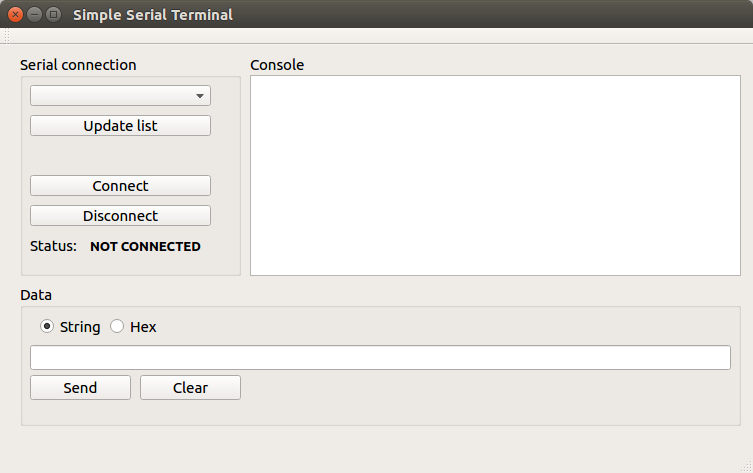
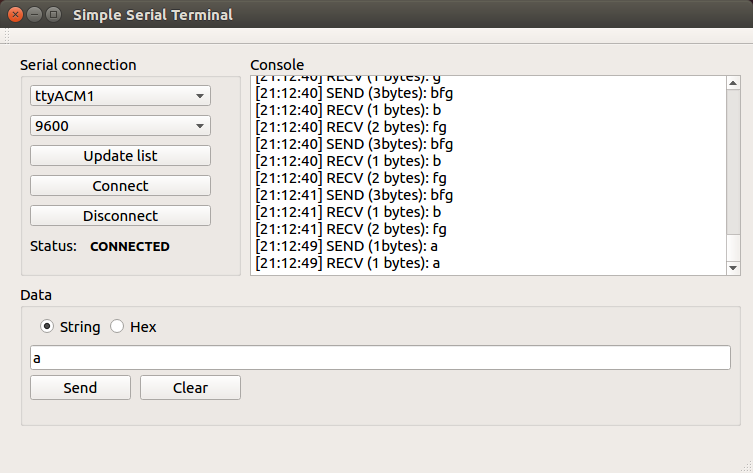
tested and works

diff --git a/SerialClient.cpp b/SerialClient.cpp
@@ -6,11 +6,9 @@ SerialClient::SerialClient()
 
 SerialClient::~SerialClient()
 {
-	if(pSerialPort != Q_NULLPTR)
+    if(this->isOpen())
 	{
-		if(pSerialPort->isOpen())
-			pSerialPort->close();
-
+        this->disconnect();
 		delete pSerialPort;
 		pSerialPort = Q_NULLPTR;
 	}
@@ -29,13 +27,10 @@ void SerialClient::setLastError(QString error)
 bool SerialClient::connect(QString portName, BaudRate baudRate)
 {
 	//Make sure we are not already connected
-	if(pSerialPort != Q_NULLPTR || pSerialPort)
+    if(this->isOpen())
 	{
-		if(pSerialPort && pSerialPort->isOpen())
-			pSerialPort->close();
-
-		delete pSerialPort;
-		pSerialPort = Q_NULLPTR;
+        this->setLastError("Port must be gracefully closed before any reconnect attempt!");
+        return false;
 	}
 
 	if(portName.isEmpty())	//If you pass an empty name, pSerialPort will crash!
@@ -61,7 +56,7 @@ bool SerialClient::connect(QString portName, BaudRate baudRate)
 		pSerialPort->open(QIODevice::ReadWrite);
 
 		//Check if connection succeed
-		if(pSerialPort->isOpen())
+        if(this->isOpen())
 		{
 			//Clean buffers to throw away garbage from the wires - but it is now working :(
 			pSerialPort->flush();
@@ -83,15 +78,19 @@ bool SerialClient::connect(QString portName, BaudRate baudRate)
 
 bool SerialClient::disconnect()
 {
-	if(!pSerialPort)
+    if(pSerialPort == Q_NULLPTR)
 		return true;
 
 	pSerialPort->close();
+    pSerialPort->disconnect();
 
-	if(!pSerialPort->isOpen())
-		return true;
+    if(this->isOpen())
+        return false;
 
-	return false;
+    delete pSerialPort;
+    pSerialPort = Q_NULLPTR;
+
+    return true;
 }
 
 void SerialClient::connectionStatusChanged(QSerialPort::SerialPortError errNo)
@@ -106,18 +105,23 @@ void SerialClient::connectionStatusChanged(QSerialPort::SerialPortError errNo)
 	}
 }
 
-qint64 SerialClient::write(QString str)
+qint64 SerialClient::write(QByteArray writeData)
 {
-	if(pSerialPort == Q_NULLPTR)
-	{
-		this->setLastError("Not connected to serial port!");
-		return -1;
-	}
+    if(!this->isOpen())
+    {
+        this->setLastError("Port is not open for writing!");
+        return -1;
+    }
 
-	if( pSerialPort->isOpen() )
+    if(writeData.length() == 0)
+    {
+        this->setLastError("Invalid 0 length data to send!");
+        return -1;
+    }
+
+    if( this->isOpen() )
 	{
-		QByteArray writeData = str.toUtf8();
-		return pSerialPort->write( writeData );
+        return pSerialPort->write( writeData );
 	}
 	else
 	{
@@ -150,16 +154,18 @@ QList<QString> SerialClient::getSerialPorts()
 
 QString SerialClient::readString()
 {
+    if(!this->isOpen())
+    {
+        this->setLastError("Port is not oppened for reading!");
+        return "-1";
+    }
+
 	// Read data
 	static QByteArray byteArray;
 	byteArray += pSerialPort->readAll();
 
-	//we want to read all message not only chunks
-	if(!QString(byteArray).contains("\n"))
-		return "^_^";
-
 	//sanitize data
-	QString data = QString( byteArray ).remove("\r").remove("\n");
+    QString data = QString( byteArray );
 	byteArray.clear();
 
 	//Send it to visual console too
@@ -168,7 +174,24 @@ QString SerialClient::readString()
 
 bool SerialClient::isOpen()
 {
+    if(this->pSerialPort == Q_NULLPTR || this->pSerialPort == 0)
+        return false;
+
 	if(pSerialPort->isOpen() && pSerialPort->isWritable() && pSerialPort->isReadable())
 		return true;
 	return false;
+}
+
+qint64 SerialClient::read(char *buffer, qint64 maxLen)
+{
+    if(!this->isOpen())
+    {
+        this->setLastError("Port is not oppened for reading!");
+        return -1;
+    }
+
+    qint64 readBytes = pSerialPort->read(buffer, maxLen);
+    qDebug() << "RECV DATA (" << QString::number(readBytes) << " bytes) : " << QString::fromUtf8( buffer );
+
+    return readBytes;
 }

diff --git a/mainwindow.cpp b/mainwindow.cpp
@@ -6,6 +6,10 @@ MainWindow::MainWindow(QWidget *parent) :
     ui(new Ui::MainWindow)
 {
     ui->setupUi(this);
+
+    this->ui->comboBox_BaudRates->addItems({"1200", "2400", "4800", "9600", "14400", "19200", "38400", "57600", "115200"});
+    this->ui->comboBox_BaudRates->setCurrentIndex(3);
+    this->baud = QSerialPort::Baud9600;
 }
 
 MainWindow::~MainWindow()
@@ -38,10 +42,10 @@ void MainWindow::on_pushButton_connectSerialPort_clicked()
     if(serialPort != Q_NULLPTR)
     {
         if(serialPort->isOpen())
-            serialPort->disconnect();
-
-        delete serialPort;
-        serialPort = Q_NULLPTR;
+        {
+            consoleLog("ERROR: You must disconnect first!");
+            return;
+        }
     }
 
     serialPort = new SerialClient();
@@ -53,7 +57,7 @@ void MainWindow::on_pushButton_connectSerialPort_clicked()
 
     if(serialPort->connect(portName, this->baud))
     {
-        this->consoleLog("SUCCESS: You're now connected to serial port!!");
+        this->consoleLog("SUCCESS: CONNECTED!!1");
     }
     else
     {
@@ -68,15 +72,24 @@ void MainWindow::on_pushButton_connectSerialPort_clicked()
 
 void MainWindow::on_pushButton_disconnectSerialPort_clicked()
 {
-    if(serialPort == Q_NULLPTR || !serialPort)
+    if(serialPort == Q_NULLPTR || serialPort == 0 || !this->serialPort->isOpen())
     {
         this->consoleLog("FAILED: You're not connected to serial port!");
         return;
-    }
+    }    
 
-    if(this->serialPort->disconnect())
+    if(this->serialPort->isOpen())
     {
-        this->consoleLog("SUCCESS: DISCONNECTED!");
+        if(this->serialPort->disconnect())
+        {
+            this->consoleLog("SUCCESS: DISCONNECTED!");
+            this->setSerialPortStatus(false);
+        }
+        else
+        {
+            this->consoleLog("FAILED: " + serialPort->getLastError());
+            return;
+        }
     }
     else
     {
@@ -97,12 +110,12 @@ void MainWindow::on_pushButton_Send_clicked()
         return;
     }
 
-    QString sendStr = ui->lineEditData->text();
+    QByteArray sendStr =  ui->lineEditData->text().toUtf8();
 
     qint64 bytesWritten = serialPort->write(sendStr);
     if( bytesWritten > 0)
     {
-        QString dbgStr = "SUCCESS SEND (" + QString::number(bytesWritten) + "bytes): " + sendStr;
+        QString dbgStr = "SEND (" + QString::number(bytesWritten) + "bytes): " + sendStr;
         this->consoleLog(dbgStr);
     }
     else
@@ -114,4 +127,22 @@ void MainWindow::on_pushButton_Send_clicked()
 void MainWindow::on_pushButton_Clear_clicked()
 {
     ui->lineEditData->clear();
+}
+
+void MainWindow::setSerialPortStatus(bool connected)
+{
+    this->ui->connectionStatusLabel->setText( connected==true?("CONNECTED"):("NOT CONNECTED") );
+}
+
+void MainWindow::serialDataReceivingSlot()
+{
+    char buffer[64] = {0};
+    qint64 readBytes = serialPort->read(buffer, sizeof(buffer));
+
+    consoleLog("RECV (" + QString::number(readBytes) + " bytes): " + buffer);
+}
+
+void MainWindow::on_comboBox_BaudRates_currentIndexChanged(int index)
+{
+    this->baud = (SerialClient::BaudRate)index;
 }

diff --git a/mainwindow.h b/mainwindow.h
@@ -21,11 +21,15 @@ public:
     void consoleLog(QString str);
 
 private slots:
+    void serialDataReceivingSlot();
+    void setSerialPortStatus(bool);
+
     void on_pushButton_updateList_clicked();
     void on_pushButton_connectSerialPort_clicked();
     void on_pushButton_disconnectSerialPort_clicked();
     void on_pushButton_Send_clicked();
     void on_pushButton_Clear_clicked();
+    void on_comboBox_BaudRates_currentIndexChanged(int index);
 
 private:
     Ui::MainWindow *ui;

diff --git a/SerialClient.h b/SerialClient.h
@@ -29,8 +29,8 @@ public:
 	bool connect(QString portName, BaudRate baudRate);
 	bool disconnect();
 
-	qint64 write(QString str);
-	qint64 read();	//not implemented yet
+    qint64 write(QByteArray data);
+    qint64 read(char *buffer, qint64 max_len);	//not implemented yet
 	QString readString();
 	static QList<QString> getSerialPorts();
 	bool isOpen();
